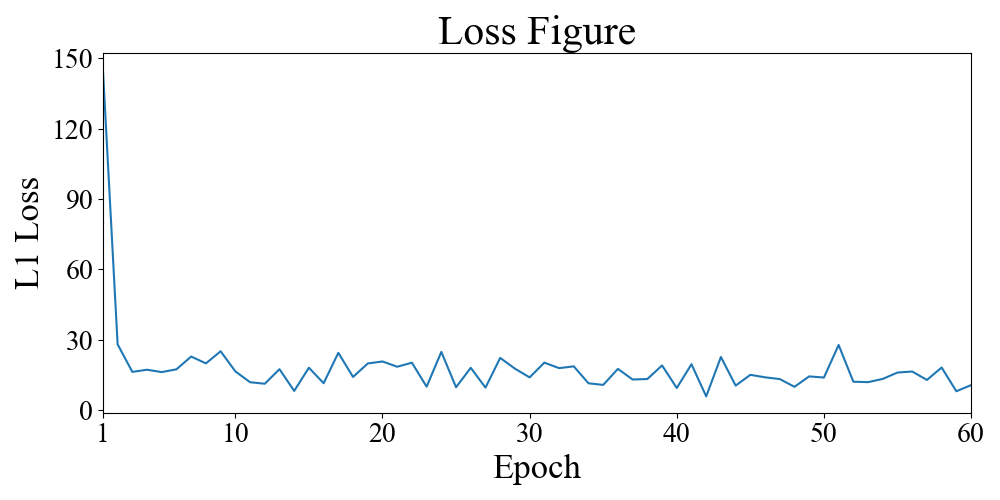
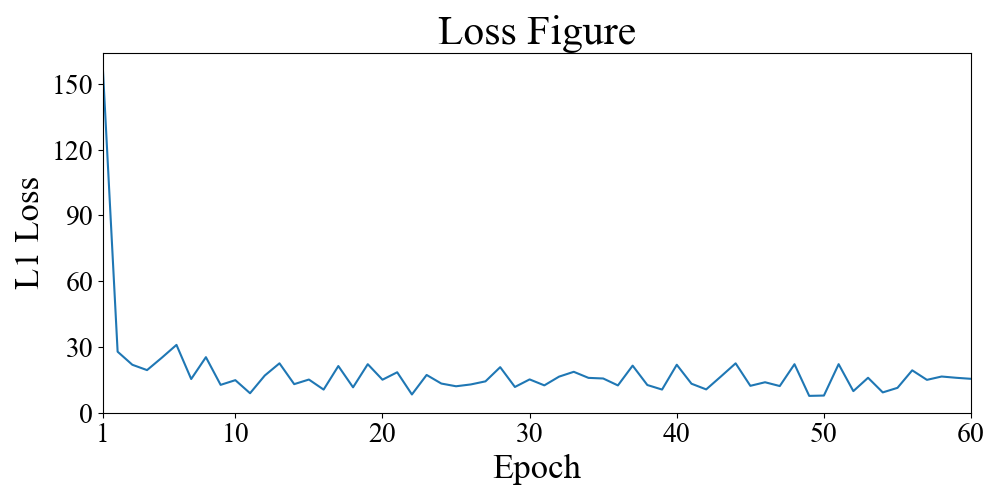
final

diff --git a/abner/main.py b/abner/main.py
@@ -42,7 +42,7 @@ def setup_seed(seed):
     random.seed(seed)
     torch.backends.cudnn.deterministic = True
 
-setup_seed(20)
+setup_seed(25)
 
 #%% Split
 D_tra, mu, std = functions._nor2(Data[:-1, :])
